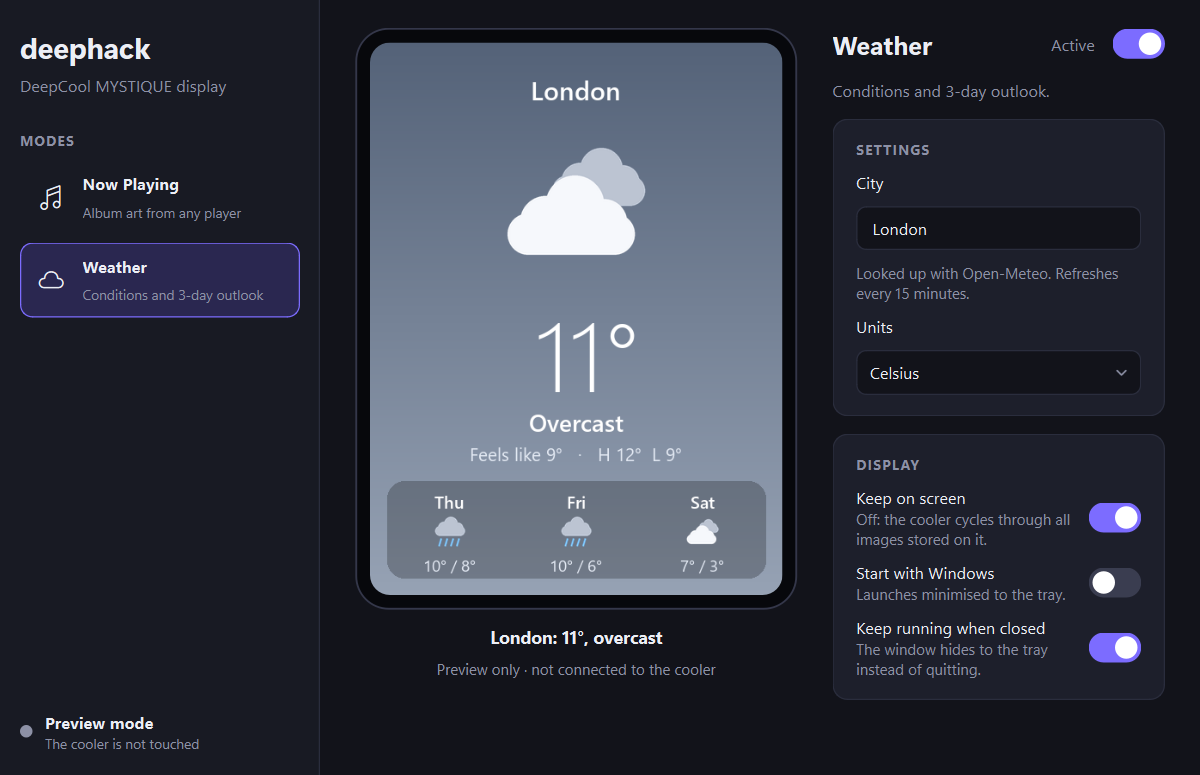
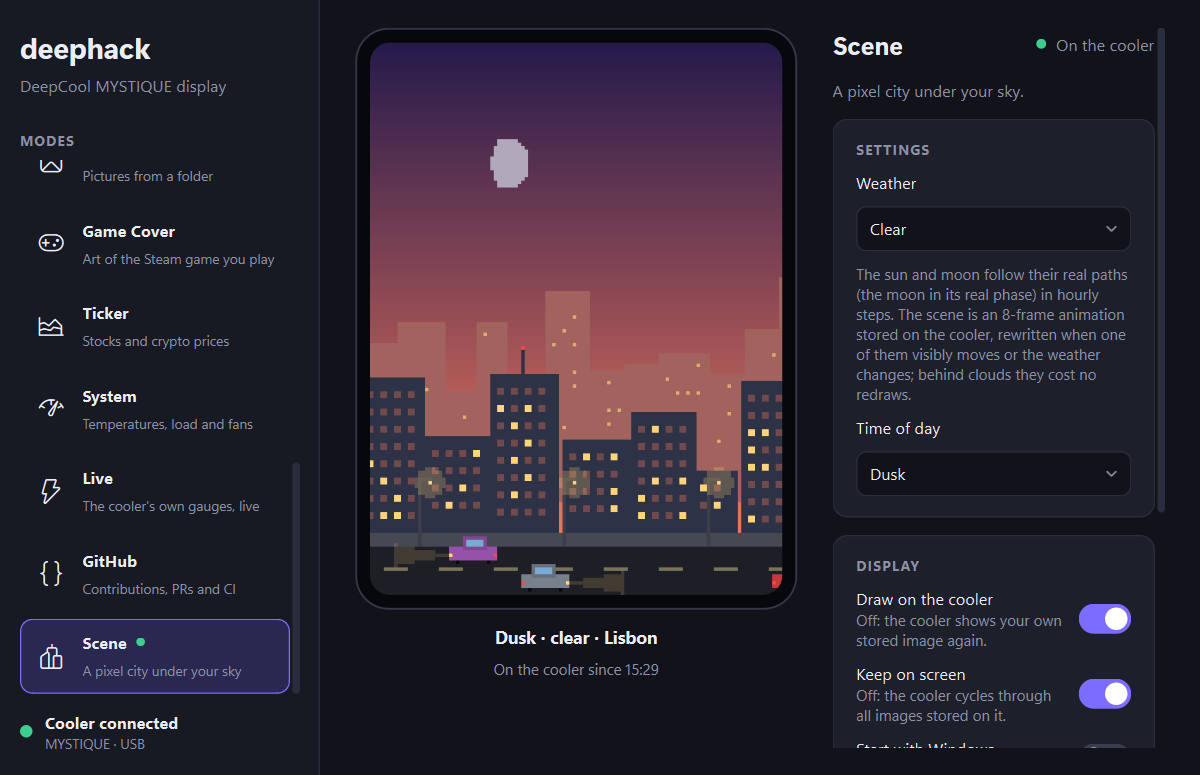
New README screenshot (the Scene on the cooler); no muddy light pools at dusk
The old screenshot showed the first version: two modes, preview only. The new one is the Scene at
dusk on the connected cooler. Taking it showed that the lamps' pools of light and the headlight beams
turn into brown smudges against a dusk street, so the pools now only show at night and the beams are
fainter until then.

diff --git a/deephack/modes/scene.py b/deephack/modes/scene.py
@@ -180,7 +180,7 @@ def traffic(seed: int) -> tuple[tuple, tuple]:
 
 
 def _vehicle(d: ImageDraw.ImageDraw, beams: ImageDraw.ImageDraw, x: int, y: int, vehicle: str, colour,
-             facing: int, glass, lights: bool) -> None:
+             facing: int, glass, lights: str) -> None:
     """A car, taxi, van or bus with its wheels on row y, facing right (1) or left (-1)."""
     n = VEHICLES[vehicle]
     roof = tuple(round(c * 0.86) for c in colour)
@@ -206,7 +206,7 @@ def _vehicle(d: ImageDraw.ImageDraw, beams: ImageDraw.ImageDraw, x: int, y: int,
     if lights:
         hy = y - 2
         reach = front + 16 * facing
-        beams.polygon([(front, hy), (reach, hy - 3), (reach, hy + 3)], fill=WARM + (84,))
+        beams.polygon([(front, hy), (reach, hy - 3), (reach, hy + 3)], fill=WARM + (84 if lights == "night" else 40,))
         d.point((front, hy), fill=WARM)
         d.point((back, hy), fill=RED_LIGHT)
         if top < y - 5:
@@ -321,7 +321,8 @@ def render_frame(f: int, phase: str, kind: str, seed: int = 0, sky: Sky | None =
         d.line([(x, 126), (x + 3, 126)], fill=(60, 62, 74))
         if glow:
             g.ellipse([x - 1, 123, x + 7, 131], fill=WARM + (60,))           # halo around the lamp
-            g.ellipse([x - 7, STREET - 1, x + 13, STREET + 5], fill=WARM + (70,))   # light pool on the pavement
+            if night:                                          # a pool of light only shows on a dark street
+                g.ellipse([x - 7, STREET - 1, x + 13, STREET + 5], fill=WARM + (70,))
             if kind in ("rain", "thunder"):                 # reflections on the wet road
                 g.rectangle([x + 1, STREET + 6, x + 4, LH], fill=WARM + (40,))
     img.paste(layer, (0, 0), layer)
@@ -338,7 +339,8 @@ def render_frame(f: int, phase: str, kind: str, seed: int = 0, sky: Sky | None =
             travelled = (offset + f * TRAFFIC_STEP) % TRAFFIC_SPAN      # once across per loop: seamless
             length = VEHICLES[vehicle]
             x = travelled - TRAFFIC_MARGIN if lane == 0 else LW - travelled
-            _vehicle(d, b, x, LANE_BOTTOM[lane], vehicle, colour, 1 if lane == 0 else -1, glass, glow)
+            _vehicle(d, b, x, LANE_BOTTOM[lane], vehicle, colour, 1 if lane == 0 else -1, glass,
+                     ("night" if night else "dim") if glow else "")
     img.paste(beams, (0, 0), beams)
 
     # weather in front of everything
